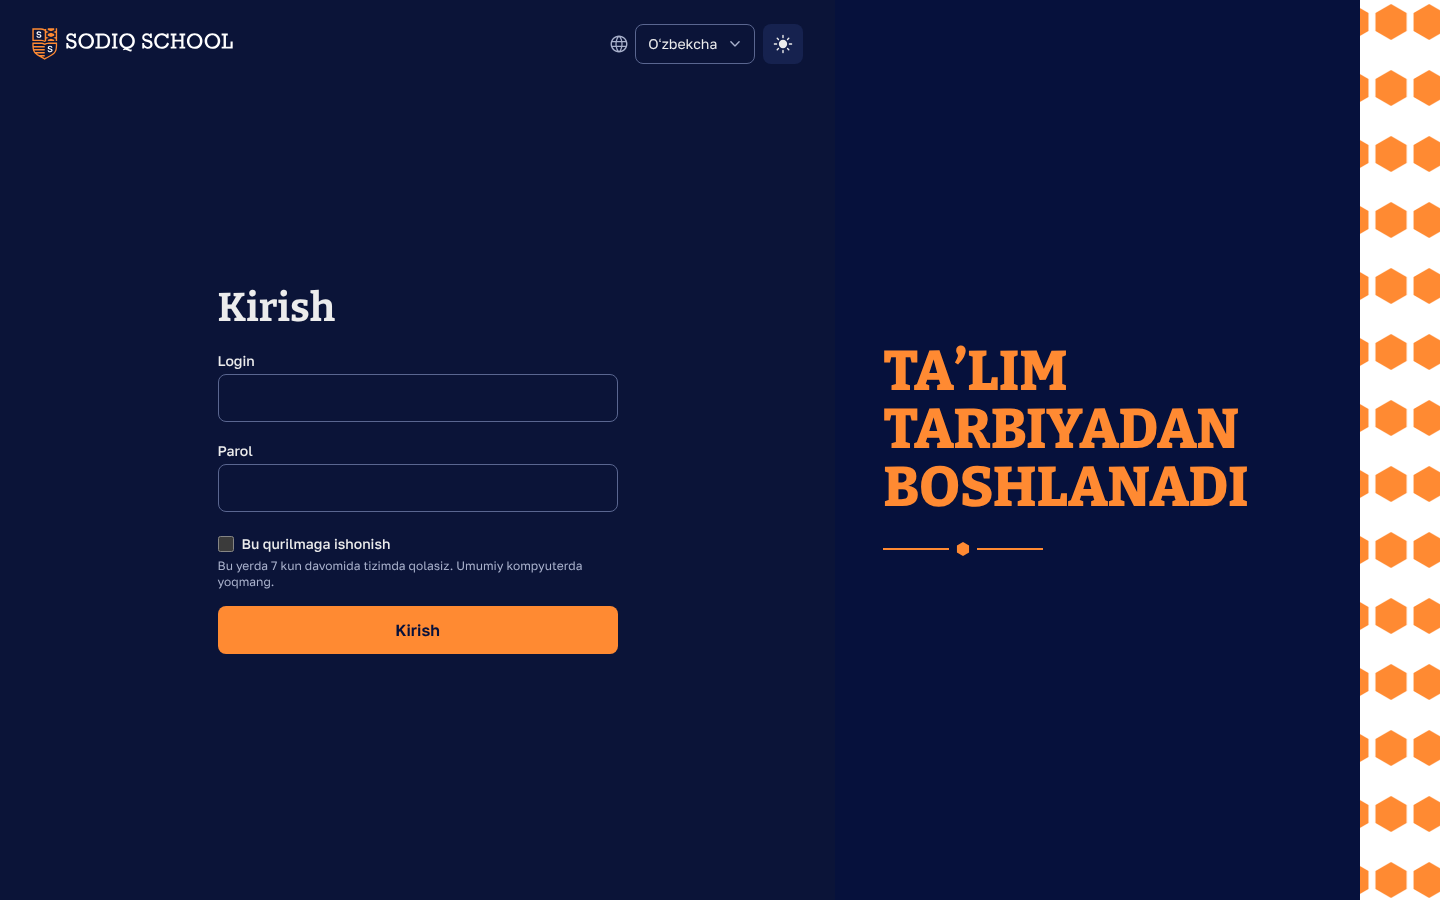
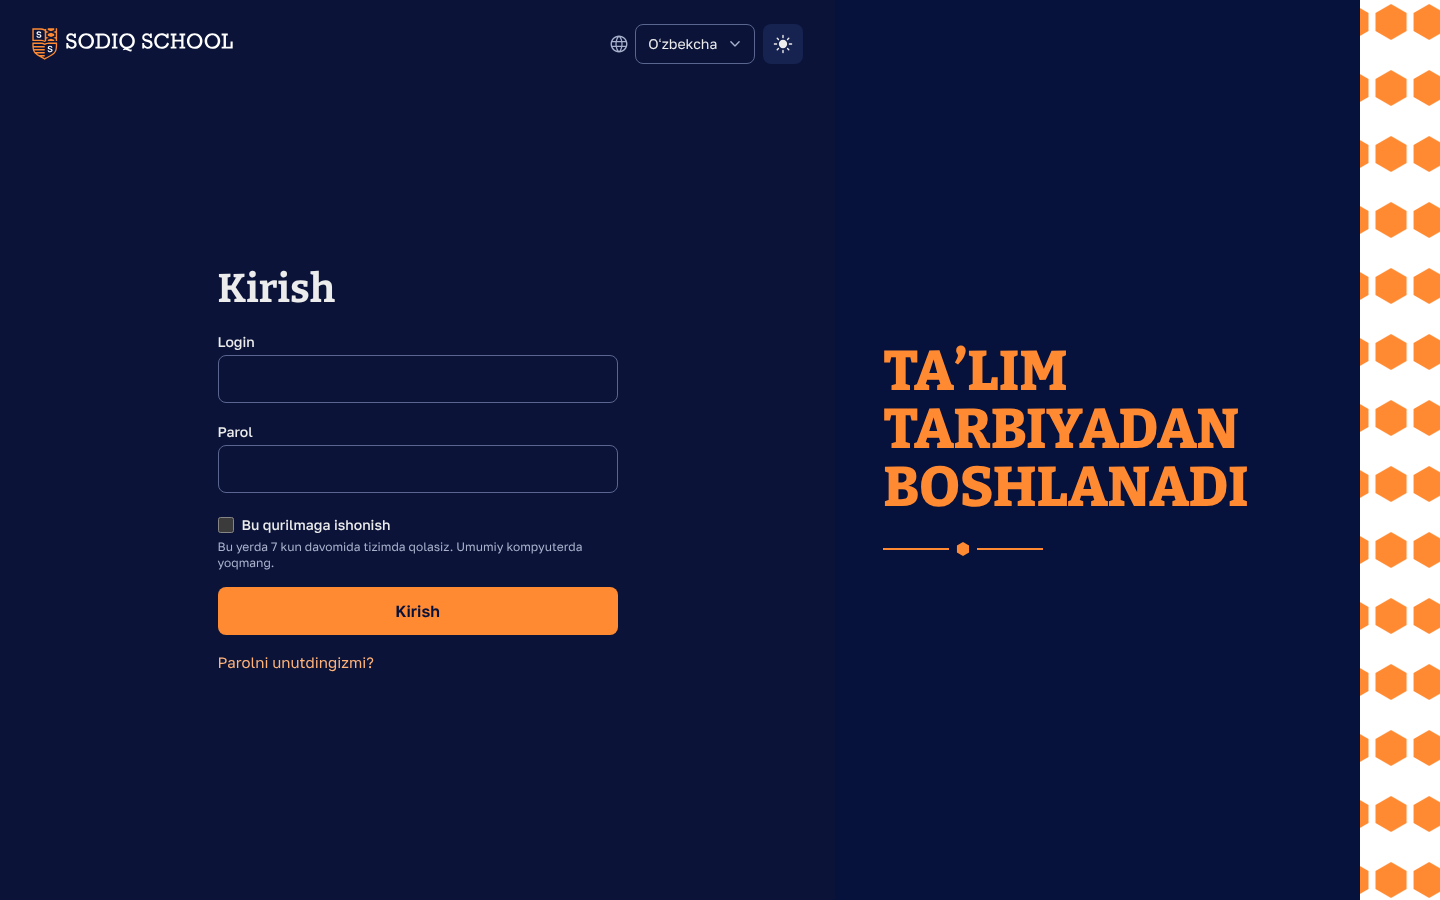
2.7c-2b-2a Open the staff and vacancy forms in the browser tests, split the task
Claude-Session: https://claude.ai/code/session_01PoJYGCKfHCjdYQdHqCpdwx

Changed region(s): [[0.125, 0.56, 0.4375, 0.7467], [0.1562, 0.28, 0.25, 0.4044], [0.1562, 0.4667, 0.1875, 0.5289]]

diff --git a/apps/web/e2e/setup.spec.ts b/apps/web/e2e/setup.spec.ts
@@ -164,6 +164,27 @@ async function checkSuperAdminPages(page: Page): Promise<void> {
   await year.getByRole('button', { name: en.form.edit, exact: true }).click();
   await expect(year.getByRole('form')).toBeVisible();
   await checkPage(page, 'setup-years-edit');
+  // Task 2.7c-2b-2a: the staff record of the pages branch, read, and with each
+  // form only the Super Admin opens there (the role forms need an account,
+  // which this person has not: the page tests open them). Nothing is saved.
+  await page.goto('/people/staff');
+  await expect(heading(page, en.people.staff.title)).toBeVisible();
+  await page.getByRole('button', { name: 'Saidova Lola', exact: true }).click();
+  const staff = page.getByRole('complementary', { name: 'Lola Saidova' });
+  await expect(staff.locator('[data-slot="panel-actions"]')).toBeVisible();
+  await checkPage(page, 'people-staff-record-super-admin');
+  for (const [name, opener] of [
+    ['people-staff-super-admin', en.form.edit],
+    ['people-staff-status', en.people.staff.changeStatus],
+    ['people-staff-branches', en.people.staff.changeBranches],
+    ['people-staff-account', en.people.account.create],
+  ] as const) {
+    await staff.getByRole('button', { name: opener, exact: true }).click();
+    await expect(staff.getByRole('form')).toBeVisible();
+    await checkPage(page, `${name}-edit`);
+    await staff.getByRole('button', { name: en.form.cancel, exact: true }).click();
+    await expect(staff.getByRole('form')).toHaveCount(0);
+  }
 }
 
 /**
@@ -382,6 +403,8 @@ async function createAccountAndSignIn(page: Page): Promise<void> {
   await page.getByRole('button', { name: 'Aminova Feruza', exact: true }).click();
   const panel = page.getByRole('complementary', { name: 'Feruza Aminova' });
   const section = panel.getByRole('region', { name: en.people.account.title });
+  // Task 2.7c-2b-2a: each form of the section opens behind its button.
+  await section.getByRole('button', { name: en.people.account.create, exact: true }).click();
   const create = section.getByRole('form', {
     name: en.people.account.createOf.replace('{{name}}', 'Feruza Aminova'),
   });
@@ -403,6 +426,7 @@ async function createAccountAndSignIn(page: Page): Promise<void> {
   await expect(slip).toBeHidden();
   await expect(page.getByText(password)).toHaveCount(0);
 
+  await section.getByRole('button', { name: en.people.account.give, exact: true }).click();
   const give = section.getByRole('form', {
     name: en.people.account.giveOf.replace('{{name}}', 'Feruza Aminova'),
   });
@@ -443,6 +467,8 @@ async function giveFormOf(page: Page, firstName: string, lastName: string) {
   const name = `${firstName} ${lastName}`;
   const panel = page.getByRole('complementary', { name });
   const section = panel.getByRole('region', { name: en.people.account.title });
+  // Task 2.7c-2b-2a: the form opens behind its button.
+  await section.getByRole('button', { name: en.people.account.give, exact: true }).click();
   const give = section.getByRole('form', {
     name: en.people.account.giveOf.replace('{{name}}', name),
   });

diff --git a/apps/web/e2e/pages.spec.ts b/apps/web/e2e/pages.spec.ts
@@ -96,23 +96,42 @@ const NEW_RECORDS = [
 
 /**
  * The People lists whose side panels get their actions at the bottom in task
- * 2.7c-2b-2: until then `checkPage` does not hold their open record to one
- * primary and the actions last. Pinned: it only shrinks, and 2.7c-2b-2 is
- * done when it is empty (pull request #83, decision 3).
+ * 2.7c-2b-2b: until then `checkPage` does not hold their open record to one
+ * primary and the actions last. Pinned: it only shrinks (staff and vacancies
+ * left it in 2.7c-2b-2a), and 2.7c-2b-2b is done when it is empty (pull
+ * request #83, decision 3; pull request #84, decision 3).
  */
-const PANEL_ACTIONS_LATER: readonly string[] = [
-  'people-staff',
-  'people-students',
-  'people-vacancies',
-  'people-parents',
-];
+const PANEL_ACTIONS_LATER: readonly string[] = ['people-students', 'people-parents'];
 
 /**
- * The School setup panels the Academic Vice Principal changes (task
- * 2.7c-2b-1): the list, the record opened by the button of its row (or the
- * first), and the button of the panel that opens its form.
+ * The School setup and People panels the Academic Vice Principal changes
+ * (tasks 2.7c-2b-1 and 2.7c-2b-2a): the list, the record opened by the button
+ * of its row (or the first), and the button of the panel that opens its form.
  */
 const EDITS = [
+  ['people-staff', '/people/staff', en.people.staff.title, null, en.form.edit],
+  [
+    'people-staff-teaching',
+    '/people/staff',
+    en.people.staff.title,
+    null,
+    en.people.staff.changeTeaching,
+  ],
+  [
+    'people-staff-availability',
+    '/people/staff',
+    en.people.staff.title,
+    null,
+    en.people.availability.change,
+  ],
+  ['people-vacancies', '/people/vacancies', en.people.vacancies.title, null, en.form.edit],
+  [
+    'people-vacancies-availability',
+    '/people/vacancies',
+    en.people.vacancies.title,
+    null,
+    en.people.availability.change,
+  ],
   ['setup-slot-types', '/setup/slot-types', en.setup.slotTypes.title, null, en.form.edit],
   ['setup-day-templates', '/setup/day-templates', en.setup.dayTemplates.title, null, en.form.edit],
   ['setup-calendar', '/setup/calendar', en.setup.calendar.title, 'Pages day off', en.form.edit],
@@ -211,8 +230,9 @@ test('every page of Phases 0 to 2 is drawn with the design system in light, dark
       panelActionsLater: PANEL_ACTIONS_LATER.includes(name),
     });
   }
-  // Task 2.7c-2b-1: each School setup panel this role changes, with its form
-  // open; its Save and Cancel are then the panel's last part. Nothing is saved.
+  // Tasks 2.7c-2b-1 and 2.7c-2b-2a: each School setup and People panel this
+  // role changes, with each of its forms open; while the record's form is
+  // open its Save and Cancel are the panel's last part. Nothing is saved.
   for (const [name, address, title, row, opener] of EDITS) {
     await open(page, address, title);
     await (row === null

diff --git a/apps/web/e2e/steps.ts b/apps/web/e2e/steps.ts
@@ -73,7 +73,7 @@ const VIEWS = [
 ] as const;
 
 /** Where `checkPage` saves its screenshots with SCREENSHOTS=1, for the report. */
-const PAGE_SCREENS = path.join(import.meta.dirname, '../../../docs/screens/2.7c-2b-1');
+const PAGE_SCREENS = path.join(import.meta.dirname, '../../../docs/screens/2.7c-2b-2a');
 
 interface Measured {
   h1: number;
@@ -102,7 +102,7 @@ interface Measured {
  * At phone width every checkbox's target is 44 px (task 2.7c-2a). A side
  * panel shows at most one primary button, and nothing of it follows its row of
  * actions (task 2.7c-2b-1).
- * With SCREENSHOTS=1 it saves docs/screens/2.7c-2b-1/<name>-<view>.png. The page
+ * With SCREENSHOTS=1 it saves docs/screens/2.7c-2b-2a/<name>-<view>.png. The page
  * is left in light at 1440 x 900.
  */
 export async function checkPage(
@@ -113,7 +113,7 @@ export async function checkPage(
     panelActionsLater = false,
   }: {
     signInFrame?: boolean;
-    /** A People panel, pinned in `PANEL_ACTIONS_LATER` until task 2.7c-2b-2. */
+    /** A People panel, pinned in `PANEL_ACTIONS_LATER` until task 2.7c-2b-2b. */
     panelActionsLater?: boolean;
   } = {},
 ): Promise<void> {

diff --git a/apps/web/e2e/people.spec.ts b/apps/web/e2e/people.spec.ts
@@ -45,6 +45,8 @@ test('an Academic Vice Principal gives a teacher of the branch a subject', async
 
   await row.getByRole('button', { name: 'Qoʻchqorov Oybek' }).click();
   const panel = page.getByRole('complementary', { name: 'Oybek Qoʻchqorov' });
+  // Task 2.7c-2b-2a: the panel reads first; each form opens behind its button.
+  await panel.getByRole('button', { name: en.form.edit, exact: true }).click();
   const record = panel.getByRole('form', { name: 'Oybek Qoʻchqorov', exact: true });
   await expect(record.getByLabel(texts.sex, { exact: true })).toBeDisabled();
   await record.getByLabel(texts.phone, { exact: true }).fill('+998 93 555 44 34');
@@ -52,6 +54,7 @@ test('an Academic Vice Principal gives a teacher of the branch a subject', async
   // The phone grouped (finding 24).
   await expect(row).toContainText('+998 93 555 44 34');
 
+  await panel.getByRole('button', { name: texts.changeTeaching, exact: true }).click();
   const teaching = panel.getByRole('form', {
     name: texts.teachingOf.replace('{{name}}', 'Oybek Qoʻchqorov'),
   });

diff --git a/docs/build-plan.md b/docs/build-plan.md
@@ -299,9 +299,14 @@ How to read the task lines:
   - Build: `PanelActions`, `usePanelEditing`, Cancel in `RecordForm`, the browser check of one primary and the actions last; the panels of buildings, rooms, divisions, years, slot types, day templates, calendar, subjects, template settings and the sample read first, with their actions at the bottom and their forms behind a button.
   - Done when: every School setup side panel has its actions at the bottom, one primary in view, and `e2e/pages.spec.ts` passes again with its screenshots in the report.
 
-- [ ] **2.7c-2b-2 Record actions at the bottom of the People panels** (2.7c-2b split in two, pull request #83, decision 1)
-  - Read: `docs/design-system.md` (Layout shell, Lists; Buttons), `.claude/rules/web.md`, the plans of pull requests #81 and #83, `docs/decisions.md` (task 2.7c-2b-1).
-  - Build: the same pattern on the panels of staff (the five Save buttons and the account parts), students (the status forms and the relatives), parents (the same-person mark) and vacancies.
+- [x] **2.7c-2b-2a Record actions at the bottom of the staff and vacancy panels** (2.7c-2b-2 split in two, pull request #84, decision 1)
+  - Read: `docs/design-system.md` (Layout shell, Lists; Buttons), `.claude/rules/web.md`, the plans of pull requests #81, #83 and #84, `docs/decisions.md` (task 2.7c-2b-1).
+  - Build: the pattern of 2.7c-2b-1 on the staff panel (the record, the subjects, the availability, the branches, the status, the account's create, give, end and change of subjects) and the vacancy panel (the record, the availability, close, reopen and delete); the staff read view shows every field of the record.
+  - Done when: the staff and vacancy side panels have their actions at the bottom, one primary in view, `people-staff` and `people-vacancies` are out of `PANEL_ACTIONS_LATER`, and `e2e/pages.spec.ts` passes again with its screenshots in the report.
+
+- [ ] **2.7c-2b-2b Record actions at the bottom of the student and parent panels** (2.7c-2b-2 split in two, pull request #84, decision 1)
+  - Read: `docs/design-system.md` (Layout shell, Lists; Buttons), `.claude/rules/web.md`, the plans of pull requests #81, #83 and #84, `docs/decisions.md` (tasks 2.7c-2b-1 and 2.7c-2b-2a).
+  - Build: the same pattern on the panels of students (the record, the UID correction, the five status forms, the photo, the relatives tab with the link editor and "Add relative") and parents (the record, the phone owner choices, the same-person mark).
   - Done when: every People side panel has its actions at the bottom, one primary in view, `PANEL_ACTIONS_LATER` of `e2e/pages.spec.ts` is empty, and `e2e/pages.spec.ts` passes again with its screenshots in the report.
 
 - [ ] **2.7c-3 Rooms "By floor" and the Branches list** (split from 2.7c on pull request #80, decision 1)
